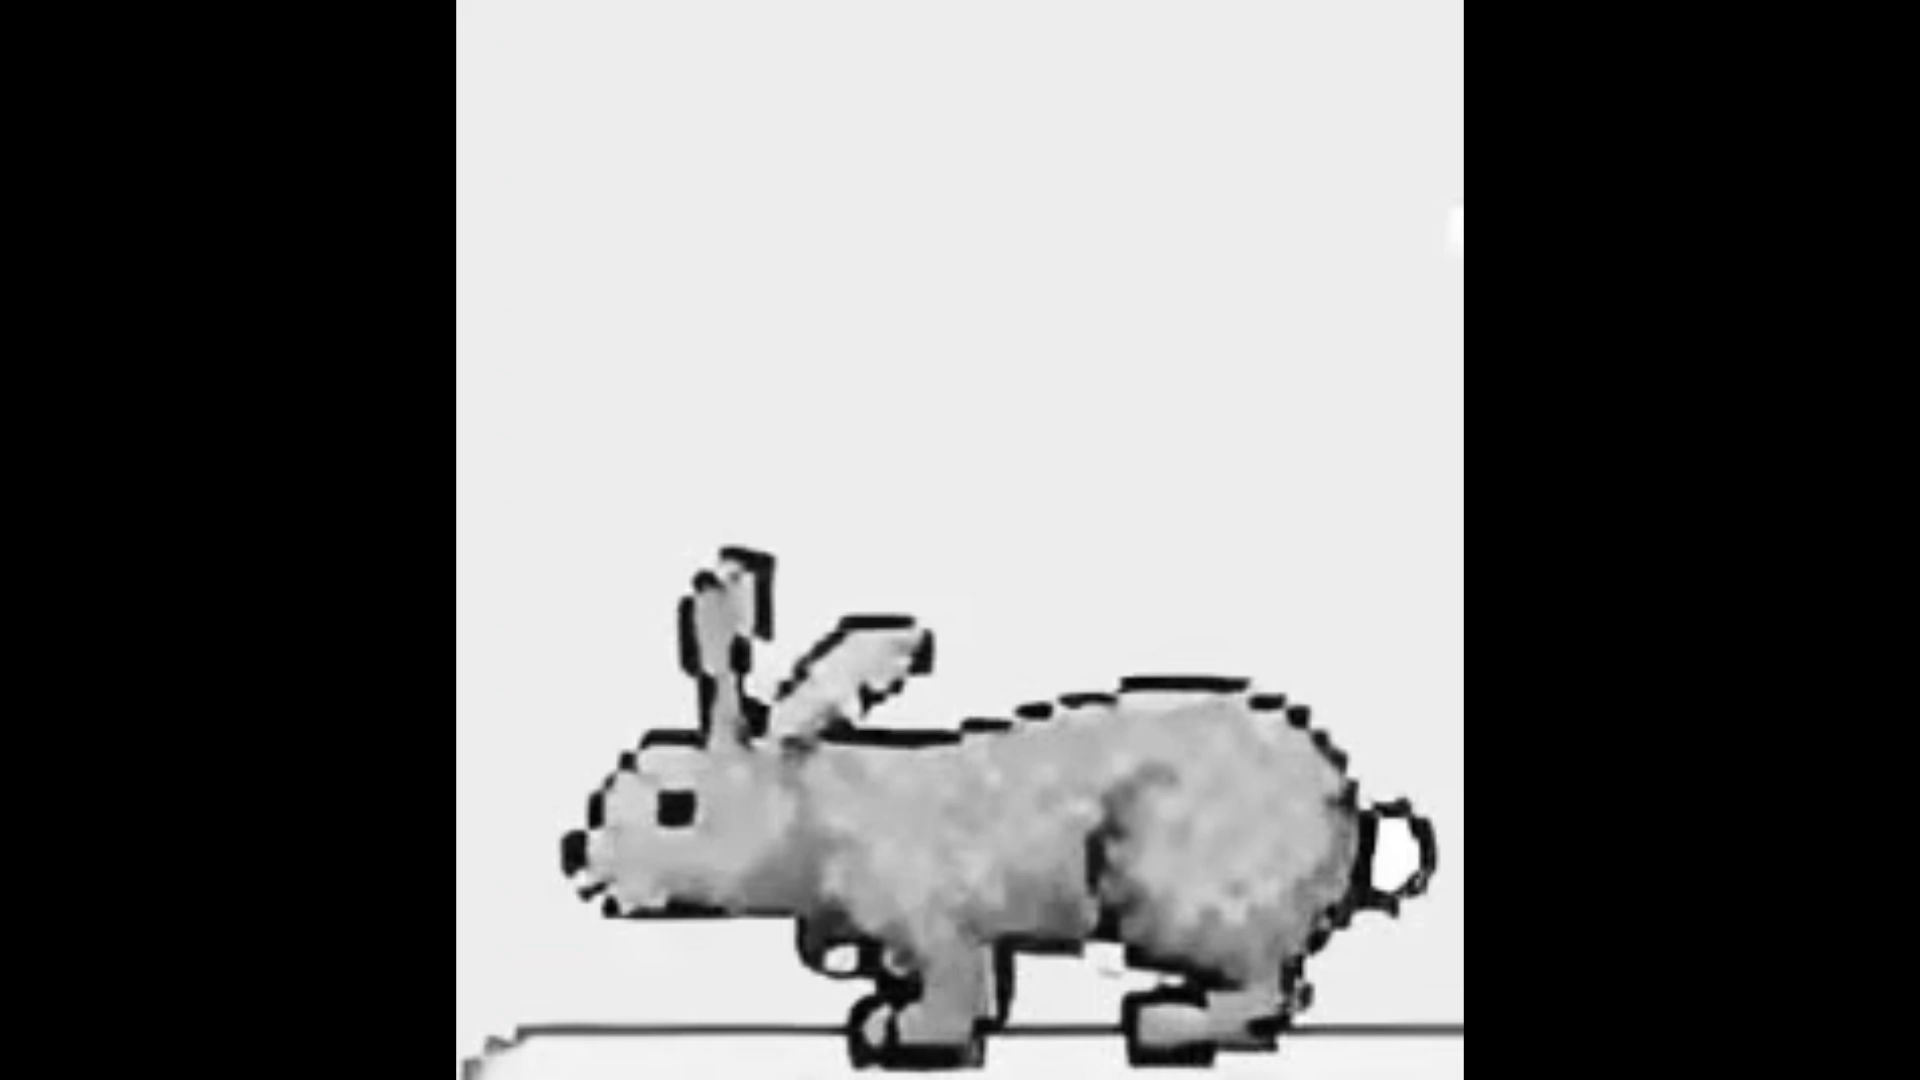
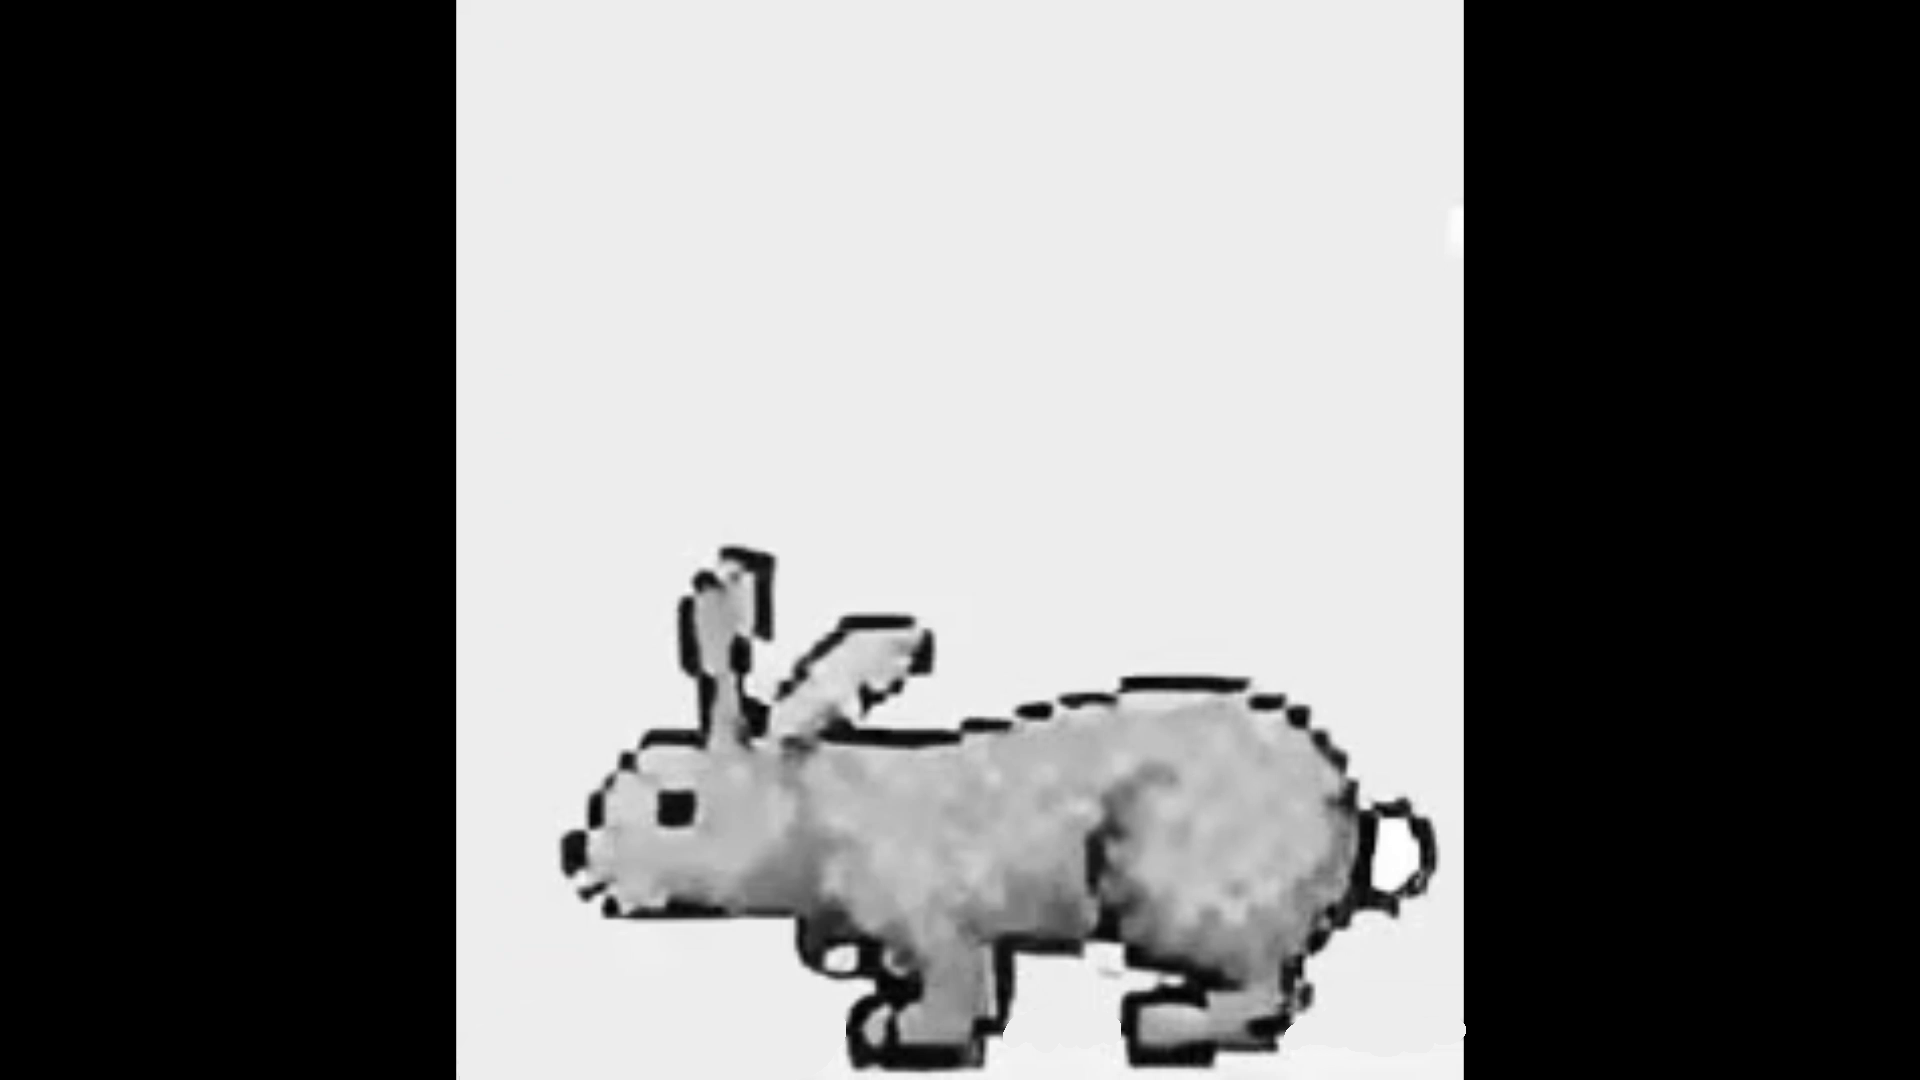
Update jump animation frames and add new optimized source GIF
Reprocess frames 3-21 with adjusted exposure for 3.5 contrast ASCII conversion. Add bunny_jump_new.gif as the optimized 17-frame source replacing the original 26-frame version. Update README with config.json integration notes and revised generation settings.

Changed region(s): [[0.2188, 0.9472, 0.4375, 1.0], [0.6562, 0.9472, 0.7812, 0.9778], [0.5, 0.9472, 0.5938, 0.9778]]

diff --git a/rabbit/originals/bunny/bunny_jump/README.md b/rabbit/originals/bunny/bunny_jump/README.md
@@ -4,50 +4,40 @@ Jumping bunny animation.
 
 ## Source
 
-`Bunny_Jump.mp4` - 26 frames at 30fps
+`Bunny_Jump.mp4` - 26 frames at 30fps, reduced to 17 frames.
 
 ## Frames
 
-26 frames (frame_01 to frame_26), uniform timing.
+17 frames, 58ms interval in engine (plays once per spacebar press).
 
-| Frame | Delay |
-|-------|-------|
-| 1-26  | 0.03s |
+## Config
 
-## GIF Generation
+Defined in `config.json`:
 
-```bash
-# Created from MP4
-python -c "
-from PIL import Image
-import cv2
-
-cap = cv2.VideoCapture('Bunny_Jump.mp4')
-frames = []
-while True:
-    ret, frame = cap.read()
-    if not ret:
-        break
-    frame_rgb = cv2.cvtColor(frame, cv2.COLOR_BGR2RGB)
-    frames.append(Image.fromarray(frame_rgb))
-cap.release()
-
-frames[0].save('bunny_jump.gif', save_all=True, append_images=frames[1:],
-    duration=33, loop=0)
-"
+```json
+{
+  "source": "originals/bunny/bunny_jump/bunny_jump.gif",
+  "widths": [30, 50, 80],
+  "contrast": 3.5,
+  "invert": true,
+  "crop": "25%,0,25%,8",
+  "directions": ["left", "right"]
+}
 ```
 
-## ASCII Conversion
+## Generation
 
 ```bash
-python tools/gif_to_ascii.py originals/bunny/bunny_jump/Bunny_Jump.mp4 --contrast 1.5 --invert --widths 60 --frames 26 --output bunny/jump/
+poetry run python -m scripts.generate_sprites
 ```
-
-Note: Frames are cropped 25% from each side before conversion.
 
 | Setting  | Value |
 |----------|-------|
-| Contrast | 1.5   |
+| Contrast | 3.5   |
 | Invert   | Yes   |
-| Width    | 60    |
-| Crop     | 25% sides |
+| Widths   | 30, 50, 80 |
+| Crop     | 25% sides, 8px bottom |
+
+## Notes
+
+Higher contrast needed due to video source. Cropped to remove empty space around bunny.
